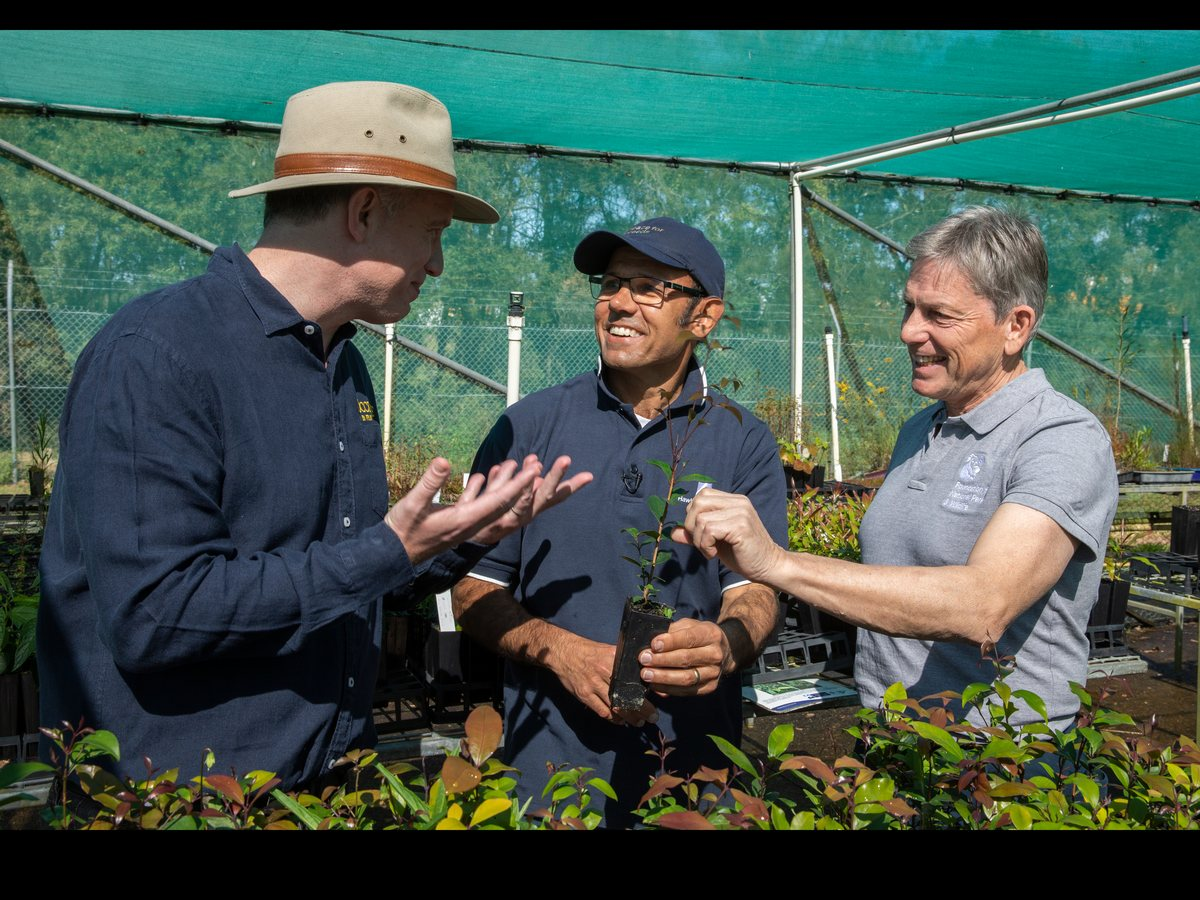
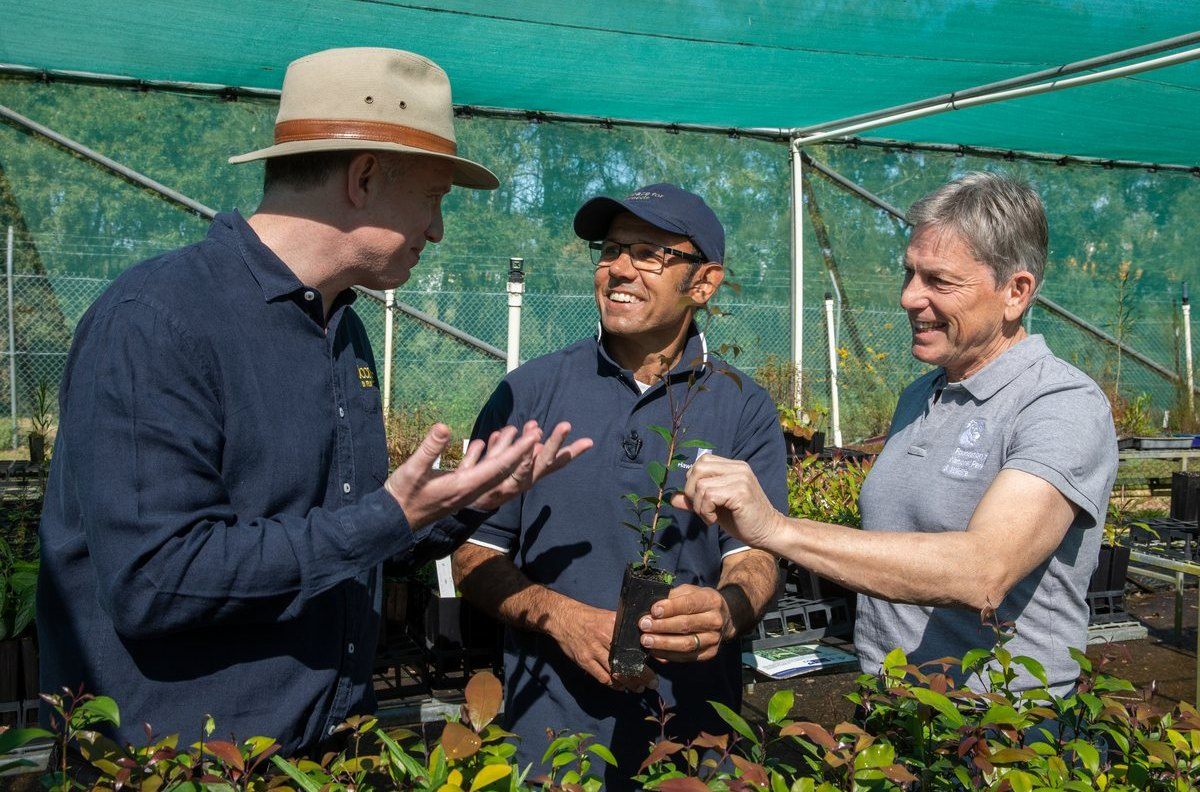
Home: crop letterbox bars off the nursery story image so it fills its frame
Claude-Session: https://claude.ai/code/session_01K1Uhp38GUsmwNgrm1DziWQ

diff --git a/index.html b/index.html
@@ -468,7 +468,7 @@ a:focus-visible,button:focus-visible{outline:2px solid var(--euc);outline-offset
     <div class="hx-story-g">
       <div class="hx-story-media rv">
         <img class="m1" src="assets/img/home-story-planting.jpg" alt="Two volunteers planting seedlings on a hillside, rows of green tree guards running away behind them" width="1000" height="1200" loading="lazy">
-        <img class="m2" src="assets/img/home-story-nursery.jpg" alt="Three people talking under shadecloth in a community nursery, one holding a potted seedling" width="1200" height="900" loading="lazy">
+        <img class="m2" src="assets/img/home-story-nursery.jpg?v=2" alt="Three people talking under shadecloth in a community nursery, one holding a potted seedling" width="1200" height="792" loading="lazy">
       </div>
       <div class="rv d1">
         <span class="ey">Since 1970</span>
